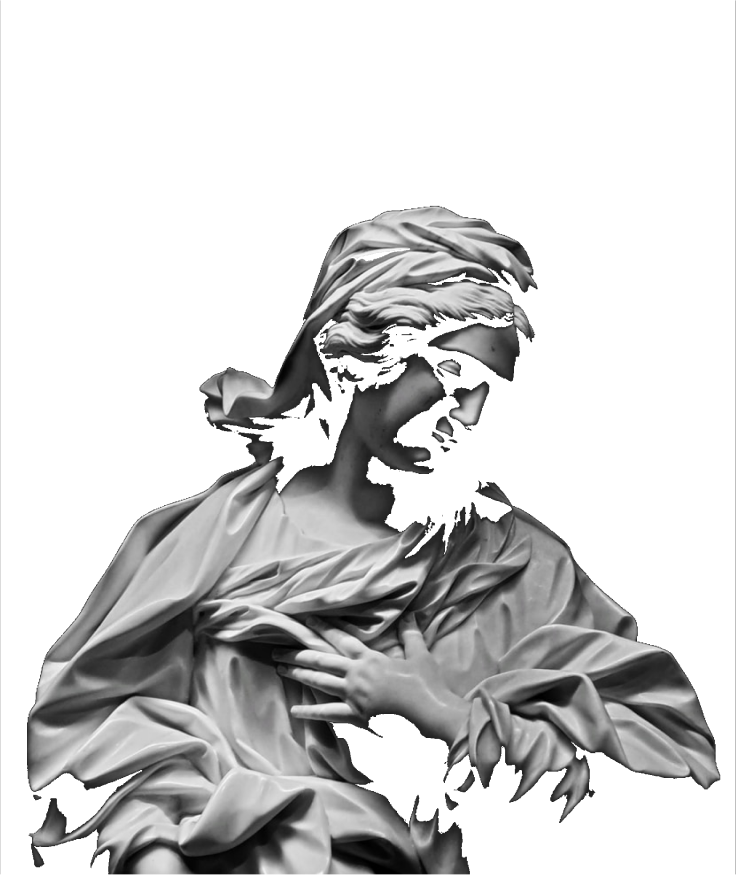
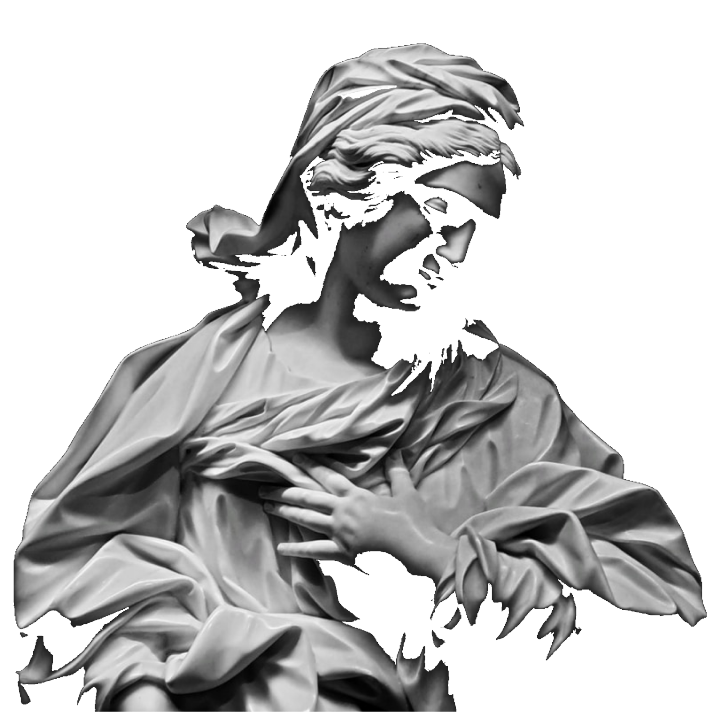
completed about page

diff --git a/app/globals.css b/app/globals.css
@@ -4,10 +4,11 @@
 
 :root {
   --bg: #020617;
+  --secondary: #3b0e1c;
+  --primary: #ff3d7a;
   --bgSoft: #2d2b42;
   --text: white;
   --textSoft: #e5e5e5;
-  --btn: #3b0e1c;
   --gray: #828282;
 }
 
@@ -29,61 +30,61 @@ a {
 
 @layer utilities {
   .flex-between {
-    @apply flex justify-between items-center;
+    @apply flex items-center justify-between;
   }
   .flex-center {
-    @apply flex justify-center items-center;
+    @apply flex items-center justify-center;
   }
 
   .text-80-bold {
     @apply text-[80px] font-bold text-white;
   }
 
-  .text-30-bold {
-    @apply text-[30px] font-bold text-white;
+  .text-50-bold {
+    @apply text-[50px] font-bold text-white;
   }
 
-  .text-24-black {
-    @apply text-[24px] font-black text-white;
+  .text-30-bold {
+    @apply text-[30px] font-bold text-white;
   }
 
   .text-20-normal {
     @apply font-normal text-[20px] text-white;
   }
 
-  .text-16-medium {
-    @apply font-medium text-[16px] text-white;
-  }
-
   .text-14-normal {
-    @apply font-normal text-sm text-white;
+    @apply text-sm font-normal text-white;
   }
   .text-white-small {
-    @apply font-normal text-xs text-white;
+    @apply text-xs font-normal text-white;
   }
 
   .text-black-small {
-    @apply font-normal text-xs text-black;
+    @apply text-xs font-normal text-black;
   }
 
   .bodyContainer {
-    @apply w-full overflow-hidden mx-auto flex justify-center items-center px-12 md:px-16 xl:px-20;
+    @apply flex items-center justify-center w-full px-12 mx-auto overflow-hidden md:px-16 xl:px-20;
   }
 
   .container {
-    @apply w-full min-h-screen flex flex-col justify-between;
+    @apply flex flex-col justify-between w-full min-h-screen;
+  }
+
+  .content-container {
+    @apply flex flex-col items-center justify-center gap-20 md:flex-row md:justify-between;
   }
 
   .text-container {
-    @apply flex flex-col;
+    @apply flex flex-col gap-6;
   }
 
   .mobile-links {
-    @apply absolute top-[100px] left-0 w-[260px] h-[calc(100vh-100px)] gap-5 overflow-hidden z-50;
+    @apply absolute top-[100px] left-0 w-[260px] h-[calc(100vh-100px)] gap-5 overflow-hidden z-50 bg-[--secondary];
   }
 
   .menu-button {
-    @apply block ml-auto cursor-pointer md:hidden text-lg;
+    @apply block ml-auto text-lg cursor-pointer md:hidden;
   }
 
   .buttons {
@@ -91,11 +92,15 @@ a {
   }
 
   .button {
-    @apply px-4 py-3.5 min-w-[100px] cursor-pointer border-none rounded-lg;
+    @apply px-3 py-2.5 md:px-4 md:py-3.5 md:min-w-[100px] cursor-pointer border-none rounded-lg;
   }
 
   .image-container {
-    @apply relative w-full min-h-[300px] sm:min-h-[400px] md:min-h-[500px];
+    @apply w-full;
+  }
+
+  .cross-pattern {
+    @apply relative min-h-[300px] sm:min-h-[400px] md:min-h-[500px];
   }
 
   .hero-img {
@@ -118,8 +123,8 @@ a {
     height: 100%;
   }
 
-  .image-container::after {
-    @apply absolute left-0 w-full h-full bg-[#3b0e1c] -z-10 overflow-hidden;
+  .cross-pattern::after {
+    @apply absolute left-0 w-full h-full bg-[--secondary] -z-10 overflow-hidden;
     clip-path: polygon(
       9% 26%,
       35% 25%,
@@ -140,7 +145,7 @@ a {
   .neonCircle {
     @apply absolute aspect-square border-[10px] border-solid border-[rgba(255,255,255,0.947)] rounded-full;
     @apply shadow-[0_0_10px_rgba(255,255,255,0.692),0_0_10px_rgba(255,255,255,0.7),0_0_0_rgba(255,255,255,0.5),inset_0_0_10px_rgba(255,255,255,0.4),inset_0_0_10px_rgba(255,255,255,0.6)];
-    @apply w-[110vw] h-[110vw] top-[-15%] right-[-45%];
+    @apply w-[122vw] h-[125vw] top-[-15%] right-[-60%];
 
     @apply sm:w-[130vw] sm:h-[130vw] sm:top-[-15%] sm:right-[-65%];
 
@@ -148,6 +153,6 @@ a {
 
     @apply lg:w-[80vw] lg:h-[80vw] lg:top-[-5%] lg:right-[-110%];
 
-    @apply xl:w-[60vw] xl:h-[60vw] xl:top-[-9%] xl:right-[-40%];
+    @apply xl:w-[60vw] xl:h-[60vw] xl:top-[-9%] xl:right-[-42%];
   }
 }

diff --git a/components/navbar/links/Links.jsx b/components/navbar/links/Links.jsx
@@ -1,7 +1,6 @@
 'use client';
 
 import { useState } from 'react';
-import styles from './links.module.css';
 import NavLink from './navLink/NavLink';
 
 const links = [
@@ -29,38 +28,44 @@ const Links = () => {
   const session = true;
   const isAdmin = true;
 
+  const renderLinks = () => (
+    <>
+      {links.map((link) => (
+        <NavLink key={link.title} item={link} />
+      ))}
+      {session && isAdmin && (
+        <NavLink item={{ title: 'Admin', path: '/admin' }} />
+      )}
+    </>
+  );
+
+  const renderAuth = () =>
+    session ? (
+      <button className="ml-3 p-1.5 text-center cursor-pointer font-bold">
+        Logout
+      </button>
+    ) : (
+      <NavLink item={{ title: 'Login', path: '/login' }} />
+    );
+
   return (
     <div className="w-full gap-2 flex-between">
-      <div className="flex-1 hidden md:flex-center">
-        {links.map((link) => (
-          <NavLink key={link.title} item={link} />
-        ))}
-        {session && isAdmin && (
-          <NavLink item={{ title: 'Admin', path: '/admin' }} />
-        )}
-      </div>
-      <div className="hidden auth md:block">
-        {session ? (
-          <button className="ml-3 p-1.5 text-center cursor-pointer font-bold">
-            Logout
-          </button>
-        ) : (
-          <NavLink item={{ title: 'Login', path: '/login' }} />
-        )}
-      </div>
+      {/* Desktop Links */}
+      <div className="flex-1 hidden md:flex-center">{renderLinks()}</div>
+
+      {/* Auth Link */}
+      <div className="hidden md:block">{renderAuth()}</div>
+
+      {/* Mobile Menu Button */}
       <button className="menu-button" onClick={() => setOpen((prev) => !prev)}>
         Menu
       </button>
+
+      {/* Mobile Links And Auth Link */}
       {open && (
         <div className="flex-col md:hidden mobile-links flex-center">
-          {links.map((link) => (
-            <NavLink key={link.title} item={link} />
-          ))}
-          {session ? (
-            <button className={styles.logout}>Logout</button>
-          ) : (
-            <NavLink item={{ title: 'Login', path: '/login' }} />
-          )}
+          {renderLinks()}
+          {renderAuth()}
         </div>
       )}
     </div>

diff --git a/app/about/page.jsx b/app/about/page.jsx
@@ -1,21 +1,42 @@
+import NeonCircle from '@/components/ui/neonCircle/NeonCircle';
 import Image from 'next/image';
 
 const AboutPage = () => {
   return (
-    <div className={styles.container}>
-      <div className={styles.textContainer}>
-        <h2>About Us</h2>
-        <h1>
-          Our mission is to empower creative minds and showcase the
-          extraordinary in every piece of art we share.
+    <div className="content-container">
+      <div className="text-container md:flex-1">
+        <h2 className="font-semibold text-[--primary]">About Us</h2>
+        <h1 className="text-30-bold md:text-50-bold">
+          Our mission is to empower creative minds.
         </h1>
-        <p>
+        <p className="text-justify md:text-left text-14-normal md:text-20-normal">
           From paintings to performance art, we believe in the transformative
           power of creativity to shape the world
         </p>
-        <div className={styles.boxes}></div>
+        <div className="flex-between">
+          <div className="flex flex-col gap-2">
+            <h1 className="text-[--primary]">10 K+</h1>
+            <p>Year of experience</p>
+          </div>
+          <div className="flex flex-col gap-2">
+            <h1 className="text-[--primary]">10 K+</h1>
+            <p>Year of experience</p>
+          </div>
+          <div className="flex flex-col gap-2">
+            <h1 className="text-[--primary]">10 K+</h1>
+            <p>Year of experience</p>
+          </div>
+        </div>
       </div>
-      <div className={styles.imageContainer}></div>
+      <div className="flex items-center justify-center md:justify-end image-container md:flex-1">
+        <Image
+          src="/statue2.png"
+          alt="About Image"
+          height={500}
+          width={500}
+          className="object-contain about-img"
+        />
+      </div>
     </div>
   );
 };

diff --git a/app/page.jsx b/app/page.jsx
@@ -3,16 +3,16 @@ import NeonCircle from '@/components/ui/neonCircle/NeonCircle';
 
 const Home = () => {
   return (
-    <div className="flex flex-col items-center justify-center gap-20 md:flex-row md:justify-between">
-      <div className="gap-6 text-container md:flex-1">
-        <h1 className="text-80-bold">Artspire.</h1>
-        <p className="text-20-normal">
+    <div className="content-container">
+      <div className=" text-container md:flex-1">
+        <h1 className="text-50-bold md:text-80-bold">Artspire.</h1>
+        <p className="text-justify md:text-left text-14-normal md:text-20-normal">
           Welcome to a world of creativity where art knows no bounds. Explore,
           imagine, and be inspired. Discover unique expressions of art, crafted
           by visionaries who dare to dream.
         </p>
         <div className="buttons">
-          <button className="button bg-[--btn] text-white-small">
+          <button className="button bg-[--secondary] text-white-small">
             Learn More
           </button>
           <button className="button text-black-small bg-[--textSoft]">
@@ -21,8 +21,16 @@ const Home = () => {
         </div>
       </div>
       <div className="image-container md:flex-1">
-        <NeonCircle />
-        <Image src="/statue.png" alt="Statue" fill className="hero-img" />
+        <div className="cross-pattern">
+          <NeonCircle />
+          <Image
+            src="/statue.png"
+            alt="Statue for Home Page"
+            fill
+            priority
+            className="object-cover hero-img"
+          />
+        </div>
       </div>
     </div>
   );

diff --git a/components/navbar/links/navLink/NavLink.jsx b/components/navbar/links/navLink/NavLink.jsx
@@ -1,7 +1,6 @@
 'use client';
 
 import Link from 'next/link';
-import styles from './navLink.module.css';
 import { usePathname } from 'next/navigation';
 
 const NavLink = ({ item }) => {
@@ -9,7 +8,9 @@ const NavLink = ({ item }) => {
   console.log(pathname);
   return (
     <Link
-      className={`${styles.link} ${pathname === item.path && styles.active}`}
+      className={`py-3 px-5 text-center font-medium ${
+        pathname === item.path && 'bg-[--text] text-[--bg] rounded-3xl'
+      }`}
       href={item.path}
     >
       {item.title}
